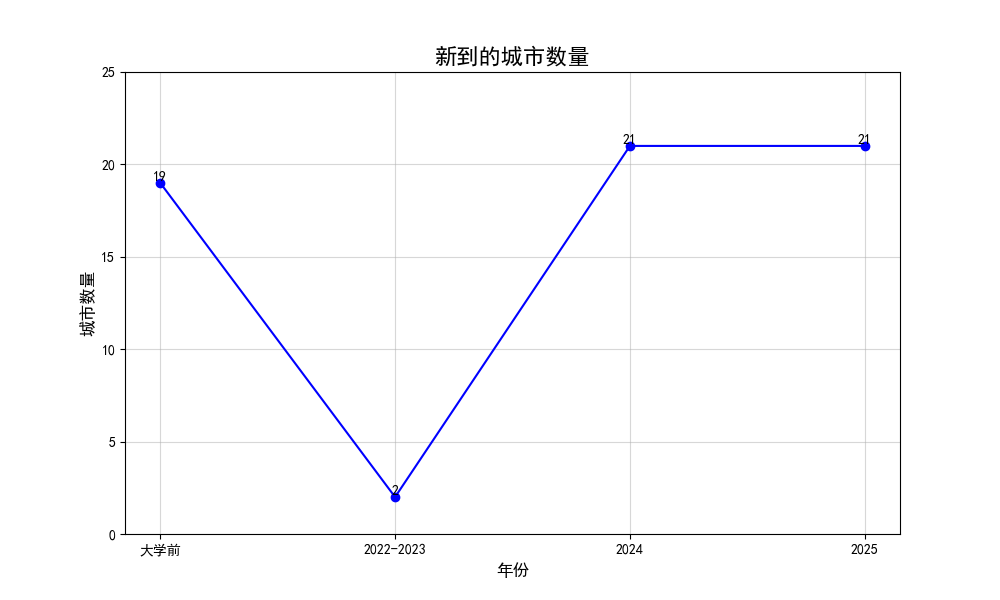
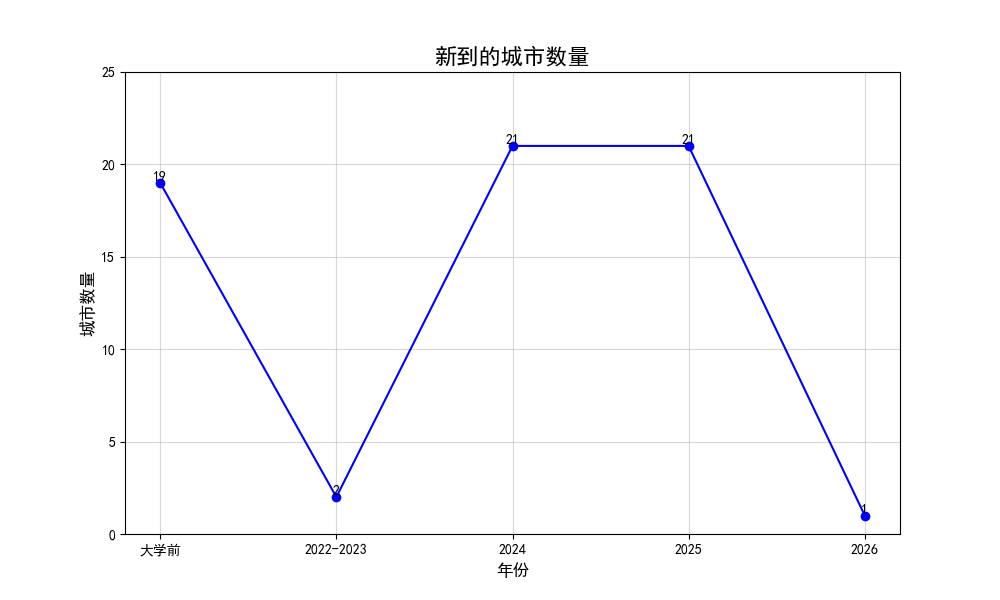
commit

diff --git a/draw.py b/draw.py
@@ -6,9 +6,9 @@ rcParams['font.sans-serif'] = ['SimHei']  # 设置字体为黑体
 rcParams['axes.unicode_minus'] = False   # 解决负号显示问题
 
 # 数据
-years = ["大学前", "2022-2023", "2024", "2025"]
-new_cities = [19, 2, 21, 21]  # 新到的城市
-cumulative_cities = [19, 21, 42, 63]  # 累计去过的城市
+years = ["大学前", "2022-2023", "2024", "2025", "2026"]
+new_cities = [19, 2, 21, 21, 1]  # 新到的城市
+cumulative_cities = [19, 21, 42, 63, 64]  # 累计去过的城市
 
 # 创建图形并绘制新到的城市折线图
 plt.figure(figsize=(10, 6))

diff --git a/source/_posts/行旅杂记.md b/source/_posts/行旅杂记.md
@@ -118,7 +118,7 @@ date: 2024-11-15 00:00:00
 
 本年共新到21个城市，铁路出行44次（高铁/动车35次，普铁9次），总里程为13033km；飞机出行3次，总里程为3890km。
 
-至此，共计去过18个省级行政区，63个城市（含省直辖县级行政区，不含普通县级市）：
+至此，共计去过18个省级行政区，64个城市（含省直辖县级行政区，不含普通县级市）：
 - 省
   - 广东（15/21）：湛江、广州、茂名、东莞、河源、惠州、阳江、江门、佛山、中山、珠海、韶关、揭阳、潮州、深圳
   - 贵州（5/9）：贵阳、黔南、黔东南、安顺、铜仁
@@ -133,7 +133,7 @@ date: 2024-11-15 00:00:00
   - 河南（6/18）：洛阳、郑州、周口、漯河、驻马店、信阳
   - 山东（1/16）：枣庄
   - 福建（2/9）：福州、龙岩
-  - 河北（2/11）：承德、保定
+  - 河北（2/11）：承德、保定、秦皇岛
 - 直辖市
   - 北京、上海、天津
 - 自治区
@@ -233,8 +233,10 @@ date: 2024-11-15 00:00:00
 ||天津西|北京南|C2624|122|
 |2025.12|北京西|雄安|C2705|103|
 ||白洋淀|北京丰台|C128|95|
+|2026.1|北京|山海关|K339 |303 |
+||山海关|北京丰台|T184|321|
 
-- 小计：88次（普铁18次，高铁/动车70次），34559km（普铁10459km，高铁/动车24100km），80个车站，44个城市
+- 小计：90次（普铁20次，高铁/动车70次），35183km（普铁11083km，高铁/动车24100km），82个车站，45个城市
 
 <figure style="text-align: center;"> <img src="https://s3.bmp.ovh/imgs/2025/11/07/76becc2b0bfcc12f.jpg" alt="铁路线路" style="display: block; margin-left: auto; margin-right: auto;width: 100%;"></figure>
 
@@ -242,7 +244,7 @@ date: 2024-11-15 00:00:00
 |-|-|
 |湛江|湛江，湛江西|
 |桂林|桂林北|
-|北京|北京西、北京南、北京丰台、清河、古北口|
+|北京|北京西、北京南、北京丰台、清河、古北口、北京|
 |贵阳|贵阳|
 |广州|广州南、广州白云、广州东|
 |合肥|合肥南、合肥、合肥北城|
@@ -285,6 +287,7 @@ date: 2024-11-15 00:00:00
 |孝感|孝感北、孝感东|
 |天津|天津、天津西|
 |保定|雄安、白洋淀|
+|秦皇岛|山海关|
 
 航班记录如下[^19]：
 | 时间       | 出发地         | 目的地         | 航班号| 机型|里程（km） |

diff --git a/renew.md b/renew.md
@@ -549,3 +549,6 @@
 12.29
    1. 加南方周末2026
    2. 加新华社拍照、月坛
+
+1.1
+   1. 加山海关  
